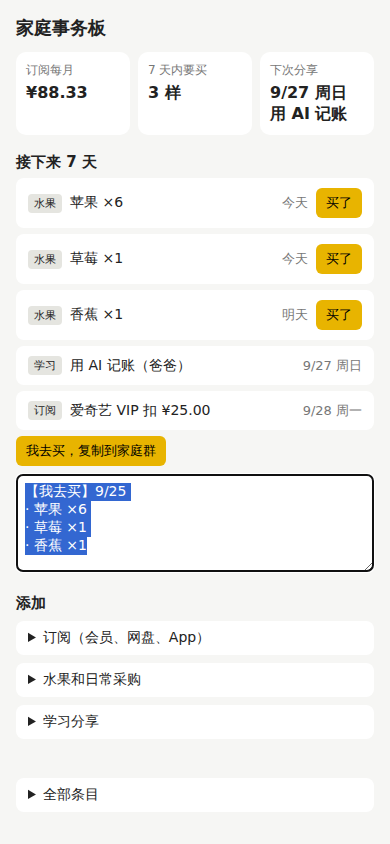
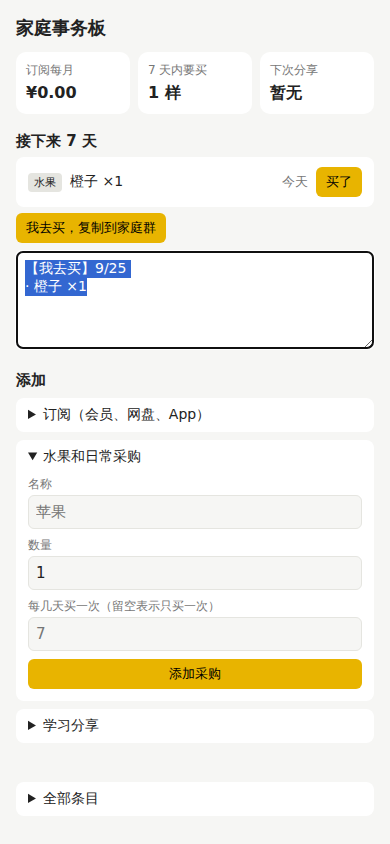
fix(app): generate ids without crypto.randomUUID on non-secure origins
Phones open the app over LAN http, where the page is not a secure
context and crypto.randomUUID is undefined, so every add failed with
an error line. The e2e check now opens the app through the machine's
real network address instead of faking a missing clipboard on
localhost, and asserts the error line stays empty.

Claude-Session: https://claude.ai/code/session_01S12fALyHBVYc1Msq9vQCZa

diff --git a/app/app.js b/app/app.js
@@ -7,6 +7,9 @@ const LABEL = { subscription: '订阅', purchase: '水果', activity: '学习' }
 
 let state = load();
 
+// crypto.randomUUID 和剪贴板一样只在安全上下文里有；家里手机用局域网 http 打开时没有它。
+const newId = () => crypto.randomUUID?.() ?? `${Date.now().toString(36)}-${Math.random().toString(36).slice(2)}`;
+
 function load() {
   try {
     const parsed = JSON.parse(localStorage.getItem(KEY));
@@ -104,7 +107,7 @@ document.querySelectorAll('form[data-kind]').forEach(form => {
     const kind = form.dataset.kind;
     try {
       const fields = PARSE[kind](Object.fromEntries(new FormData(form)));
-      dispatch({ type: 'add', item: { id: crypto.randomUUID(), kind, ...fields } });
+      dispatch({ type: 'add', item: { id: newId(), kind, ...fields } });
       form.reset();
       $('[data-testid=error]').textContent = '';
     } catch (err) {
@@ -140,7 +143,7 @@ $('[data-testid=seed]').onclick = () => {
     { kind: 'purchase', name: '草莓', qty: 1, everyDays: null, lastBought: null },
     { kind: 'activity', topic: '用 AI 记账', host: '爸爸', date: addDays(t, 2) },
     { kind: 'activity', topic: '太阳系', host: '小宇', date: addDays(t, 9) },
-  ].forEach(item => dispatch({ type: 'add', item: { id: crypto.randomUUID(), ...item } }));
+  ].forEach(item => dispatch({ type: 'add', item: { id: newId(), ...item } }));
 };
 
 render();
